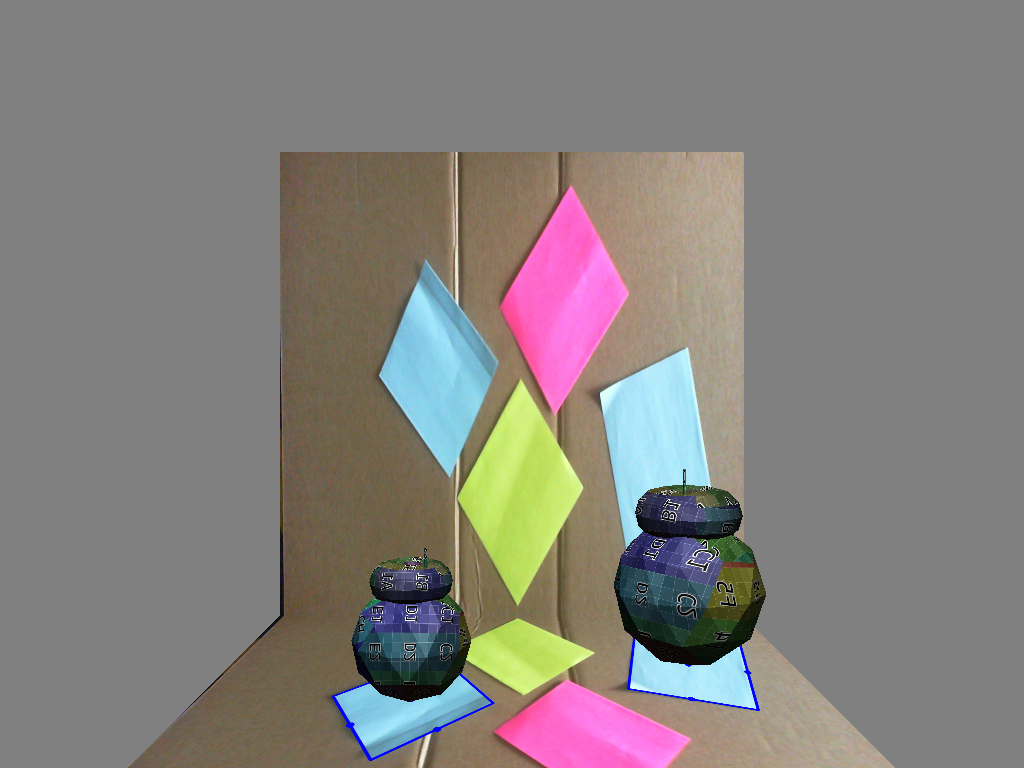
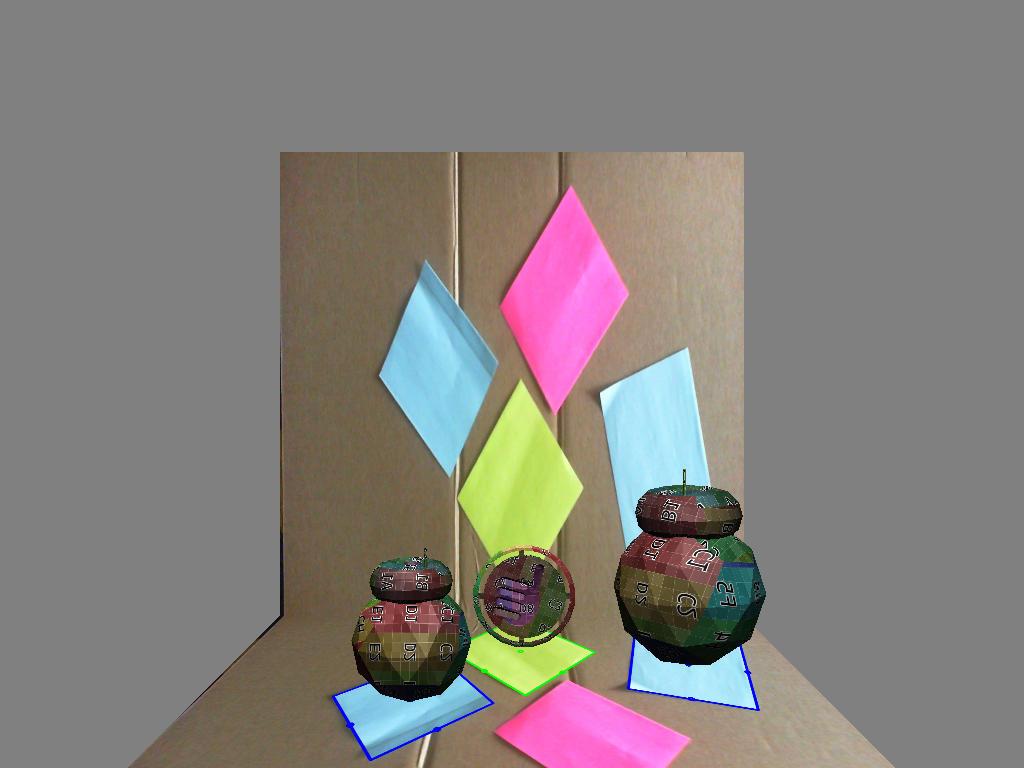
Renders multiple types of object depending on stickynote color.

Changed region(s): [[0.3438, 0.6875, 0.5625, 0.875], [0.5938, 0.625, 0.75, 0.8438], [0.5, 0.875, 0.5312, 0.9062]]

diff --git a/main.cpp b/main.cpp
@@ -25,6 +25,9 @@
 
 #define STATIC_IMAGES
 
+#define WIDTH 1024
+#define HEIGHT 768
+
 float backdrop_vert[] = {
 //  Position             Texture       Normal
      1.0f, 0.0f, 0.0f,   1.0f, 0.0f,   0.0f, 0.0f, 1.0f, // Bottom Right
@@ -52,7 +55,7 @@ void key_callback(GLFWwindow* window, int key, int scancode, int action, int mod
 	(
 		filename,
 		SOIL_SAVE_TYPE_BMP,
-		0, 0, 1024, 768
+		0, 0, WIDTH, HEIGHT
 	);
       }
     #ifdef STATIC_IMAGES
@@ -91,7 +94,7 @@ int main()
     glfwWindowHint(GLFW_RESIZABLE, GL_FALSE);
 
     // --- Create window ---
-    GLFWwindow* window = glfwCreateWindow(1024, 768,
+    GLFWwindow* window = glfwCreateWindow(WIDTH, HEIGHT,
                                       "OpenGL", nullptr, nullptr); // Windowed
     if(window == NULL) return 2;
     glfwMakeContextCurrent(window);
@@ -104,12 +107,12 @@ int main()
     // --- Application Specific Setup ---
     
     
-    // Create FG Vertex Array Object
+    // Create FG Vertex Array
     GLuint bd_vao;
     glGenVertexArrays(1, &bd_vao);
     glBindVertexArray(bd_vao);
     
-    // Create FG Vertex Buffer Object
+    // Create FG Vertex Buffer
     GLuint bd_vbo;
     glGenBuffers(1, &bd_vbo);
     glBindBuffer(GL_ARRAY_BUFFER, bd_vbo);
@@ -118,34 +121,48 @@ int main()
     
     glBindVertexArray(0);
    
-    // Create Object Vertex Array Object
-    GLuint obj_vao;
-    glGenVertexArrays(1, &obj_vao);
-    glBindVertexArray(obj_vao);
-
-    // Create Object Vertex Buffer Object
-    GLuint obj_vbo;
-    glGenBuffers(1, &obj_vbo);
-    glBindBuffer(GL_ARRAY_BUFFER, obj_vbo);
     
     vector<Vert<float, 8>> obj_vertices;
-    int obj_length;
-    loadOBJ("object.obj", obj_vertices);
+    int obj_lengths[2];
+    // Create Object Vertex Arrays
+    GLuint obj_vaos[2];
+    glGenVertexArrays(sizeof(obj_vaos)/sizeof(GLuint), obj_vaos);
+
+    GLuint obj_vbos[2];
+    glGenBuffers(sizeof(obj_vbos)/sizeof(GLuint), obj_vbos);
+
+    // Create Object 0 Vertex Buffer
+    glBindVertexArray(obj_vaos[0]);
+    glBindBuffer(GL_ARRAY_BUFFER, obj_vbos[0]);
+    
+    loadOBJ("bb8.obj", obj_vertices);
     glBufferData(GL_ARRAY_BUFFER, obj_vertices.size() * sizeof(Vert<float, 8>),
                                   &obj_vertices[0], GL_STATIC_DRAW);
-    obj_length = obj_vertices.size();
+    obj_lengths[0] = obj_vertices.size();
 
-    // Read object texutre
+    // Read Object 0 texture
     int obj_tex_width, obj_tex_height;
     unsigned char* obj_texture =
       SOIL_load_image("tex.png", &obj_tex_width, &obj_tex_height, 0, SOIL_LOAD_RGB);
 
-    // Make object shader program.
+
+    obj_vertices.clear();
+    // Create Object 1 Vertex Buffer
+    glBindVertexArray(obj_vaos[1]);
+    glBindBuffer(GL_ARRAY_BUFFER, obj_vbos[1]);
+    
+    int obj_length;
+    loadOBJ("h2g2coin.obj", obj_vertices);
+    glBufferData(GL_ARRAY_BUFFER, obj_vertices.size() * sizeof(Vert<float, 8>),
+                                  &obj_vertices[0], GL_STATIC_DRAW);
+    obj_lengths[1] = obj_vertices.size();
+
+    // Make Object 0 shader program.
     GLuint lightingShaderProgram;
     makeShader(SHADER_VERT3D, SHADER_FRAG_LIGHTING, lightingShaderProgram);
     
-    glBindVertexArray(obj_vao);
-    glBindBuffer(GL_ARRAY_BUFFER, obj_vbo);
+    glBindVertexArray(obj_vaos[0]);
+    glBindBuffer(GL_ARRAY_BUFFER, obj_vbos[0]);
 
     GLint pvpAttrib = glGetAttribLocation(lightingShaderProgram, "position");
     glEnableVertexAttribArray(pvpAttrib);
@@ -158,6 +175,22 @@ int main()
                  8*sizeof(float), (void*)(3*sizeof(float)));
 
     GLint pvnAttrib = glGetAttribLocation(lightingShaderProgram, "normal");
+    glEnableVertexAttribArray(pvnAttrib);
+    glVertexAttribPointer(pvnAttrib, 3, GL_FLOAT, GL_FALSE,
+                 8*sizeof(float), (void*)(5*sizeof(float)));
+    
+    // Make Object 1 shader program.
+    glBindVertexArray(obj_vaos[1]);
+    glBindBuffer(GL_ARRAY_BUFFER, obj_vbos[1]);
+
+    glEnableVertexAttribArray(pvpAttrib);
+    glVertexAttribPointer(pvpAttrib, 3, GL_FLOAT, GL_FALSE,
+                 8*sizeof(float), 0);
+
+    glEnableVertexAttribArray(pvcAttrib);
+    glVertexAttribPointer(pvcAttrib, 2, GL_FLOAT, GL_FALSE,
+                 8*sizeof(float), (void*)(3*sizeof(float)));
+
     glEnableVertexAttribArray(pvnAttrib);
     glVertexAttribPointer(pvnAttrib, 3, GL_FLOAT, GL_FALSE,
                  8*sizeof(float), (void*)(5*sizeof(float)));
@@ -192,7 +225,7 @@ int main()
                           glm::vec3( 0.0f,  0.0f,  1.0f)
                         );
     glm::mat4 proj = 
-          glm::perspective(glm::radians(45.0f), 800.0f / 600.0f, 1.0f, 10.0f);
+          glm::perspective(glm::radians(45.0f), (float)WIDTH / HEIGHT, 1.0f, 10.0f);
     glm::mat4 model = glm::mat4();
 
     glUniform3fv(glGetUniformLocation(lightingShaderProgram, "lighting"),
@@ -258,11 +291,11 @@ int main()
         vector<vector<float>> poses;
 
         // Find objects and estimate poses.
-        findObjects(processedFrame, poses, 0);
+        findObjects(processedFrame, poses);
         cerr << frame_num <<"--------" << endl;
         for(int i = 0; i < poses.size(); i++) {
-          cerr << i << ":" << poses[i][0] << ", \t" << poses[i][1] << endl;
-          cerr <<     "  " << poses[i][2] << ", \t" << poses[i][3] << endl;
+          cerr << i << "-" << poses[i][0] << ":" << poses[i][1] << ", \t" << poses[i][2] << endl;
+          cerr <<  "   "                         << poses[i][3] << ", \t" << poses[i][4] << endl;
         }
 
         // Draw Baseboard
@@ -312,12 +345,12 @@ int main()
         // Draw Objects
         for(int i = 0; i < poses.size(); i++) {
           model = glm::mat4();
-          model = glm::translate(model, glm::vec3(poses[i][0], poses[i][1], 0.0f));
-          model = glm::rotate(model, poses[i][2], glm::vec3(0.0f, 0.0f, 1.0f));
-          model = glm::scale(model, glm::vec3(poses[i][3]));
+          model = glm::translate(model, glm::vec3(poses[i][1], poses[i][2], 0.0f));
+          model = glm::rotate(model, poses[i][3], glm::vec3(0.0f, 0.0f, 1.0f));
+          model = glm::scale(model, glm::vec3(poses[i][4]));
 
           glTexImage2D(GL_TEXTURE_2D, 0, GL_RGB,
-                        obj_tex_width, obj_tex_height, 0, GL_BGR,
+                        obj_tex_width, obj_tex_height, 0, GL_RGB,
                         GL_UNSIGNED_BYTE, obj_texture);
           glGenerateMipmap(GL_TEXTURE_2D);
 
@@ -331,8 +364,10 @@ int main()
           glUniformMatrix4fv(glGetUniformLocation(lightingShaderProgram, "model"),
                   1, GL_FALSE, glm::value_ptr(model));
 
-          glBindVertexArray(obj_vao);
-            glDrawArrays(GL_TRIANGLES, 0, obj_length);
+          int obj_num = poses[i][0];
+          if(obj_num == 2) continue;
+          glBindVertexArray(obj_vaos[obj_num]);
+            glDrawArrays(GL_TRIANGLES, 0, obj_lengths[obj_num]);
           glBindVertexArray(0);
         }
         
@@ -345,10 +380,10 @@ int main()
     glDeleteProgram(lightingShaderProgram);
     glDeleteProgram(blankShaderProgram);
     
-    glDeleteBuffers(1, &obj_vbo);
+    glDeleteBuffers(sizeof(obj_vbos)/sizeof(GLuint), obj_vbos);
     glDeleteBuffers(1, &bd_vbo);
 
-    glDeleteVertexArrays(1, &obj_vao);
+    glDeleteVertexArrays(sizeof(obj_vaos)/sizeof(GLuint), obj_vaos);
     glDeleteVertexArrays(1, &bd_vao);
 
     glfwDestroyWindow(window);

diff --git a/cvhelper.hpp b/cvhelper.hpp
@@ -30,10 +30,10 @@ static void applyFilter(const Mat& src, Mat& filter, const int filterNum) {
         inRange(hsv, Scalar( 90,  32,  0), Scalar(120, 192, 255), filter); // Detects Cyan
         break;
       case 1:
-        inRange(hsv, Scalar( 30,  64,  0), Scalar( 50, 192, 255), filter); // Detects Yellow
+        inRange(hsv, Scalar( 30,  64,  0), Scalar( 60, 192, 255), filter); // Detects Yellow
         break;
       case 2:
-        inRange(hsv, Scalar(160, 127,  0), Scalar(180, 255, 255), filter); // Detects Pink
+        inRange(hsv, Scalar(150, 127,  0), Scalar(180, 255, 255), filter); // Detects Pink
         break;
     }
 }
@@ -146,38 +146,33 @@ static void drawCenters( Mat& image, const vector<vector<Point>>& anchors, Scala
     }
 }
 
-static void findObjects(Mat& image, vector<vector<float>>& poses, const int filterNum) {
-    Scalar color;
-    vector<vector<Point>> anchors;
-    switch(filterNum) {
-      case 0:
-        color = Scalar(255,0,0);
-        break;
-      case 1:
-        color = Scalar(0,255,0);
-        break;
-      case 2:
-        color = Scalar(0,0,255);
-        break;
-    }
+static void findObjects(Mat& image, vector<vector<float>>& poses) {
+  vector<Scalar> colors;
+  vector<vector<Point>> anchors;
+  colors.push_back(Scalar(255,0,0));
+  colors.push_back(Scalar(0,255,0));
+  colors.push_back(Scalar(0,0,255));
 
+
+  poses.clear();
+  for(int fNum = 0; fNum < 3; fNum++) {
     Mat filter;
     vector<vector<Point>> squares;
 
-    applyFilter(image, filter, filterNum);   
- 
+    applyFilter(image, filter, fNum);   
     findSquares(filter, squares);
     findAnchors(squares, anchors);
-    drawSquares(image, squares, color);
-    drawCenters(image, anchors, color);
+    drawSquares(image, squares, colors[fNum]);
+    drawCenters(image, anchors, colors[fNum]);
 
-    poses = vector<vector<float>>(anchors.size());
     for(int i = 0; i < anchors.size(); i++) {
       float dx, dy;
-      poses[i].reserve(4);
+      vector<float> pose;
+      pose.resize(5);
 
-      poses[i].push_back((float)anchors[i][0].x / image.cols);
-      poses[i].push_back((float)anchors[i][0].y / image.rows);
+      pose[0] = (float)fNum;
+      pose[1] = (float)anchors[i][0].x / image.cols;
+      pose[2] = (float)anchors[i][0].y / image.rows;
 
       if(anchors[i][1].y > anchors[i][2].y) {
         dx = (anchors[i][1].x - anchors[i][0].x);
@@ -187,7 +182,9 @@ static void findObjects(Mat& image, vector<vector<float>>& poses, const int filt
         dy = (anchors[i][2].y - anchors[i][0].y);
       }
 
-      poses[i].push_back(-atan(dx/dy));
-      poses[i].push_back(1.5*(dy/image.rows));
+      pose[3] = -atan(dx/dy);
+      pose[4] = 1.5*(dy/image.rows);
+      poses.push_back(pose);
     }
+  }
 }
